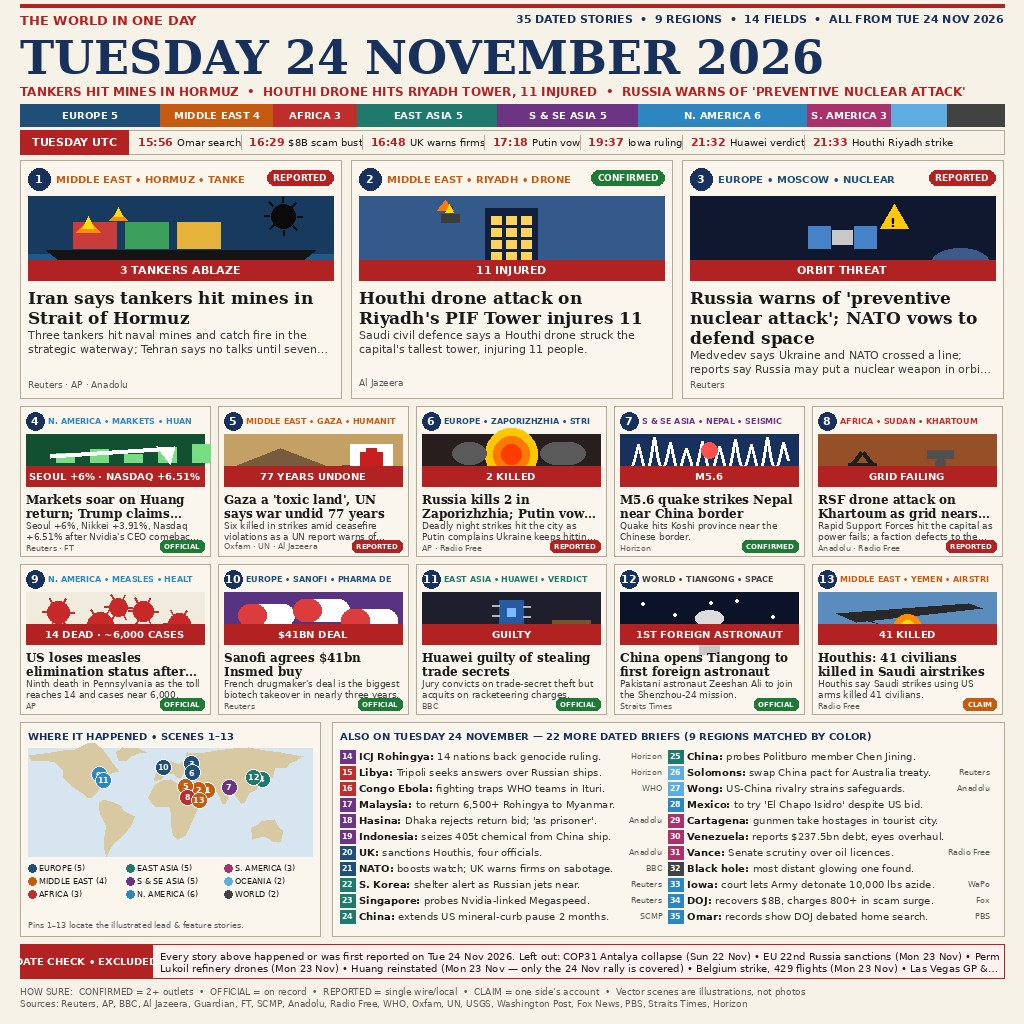
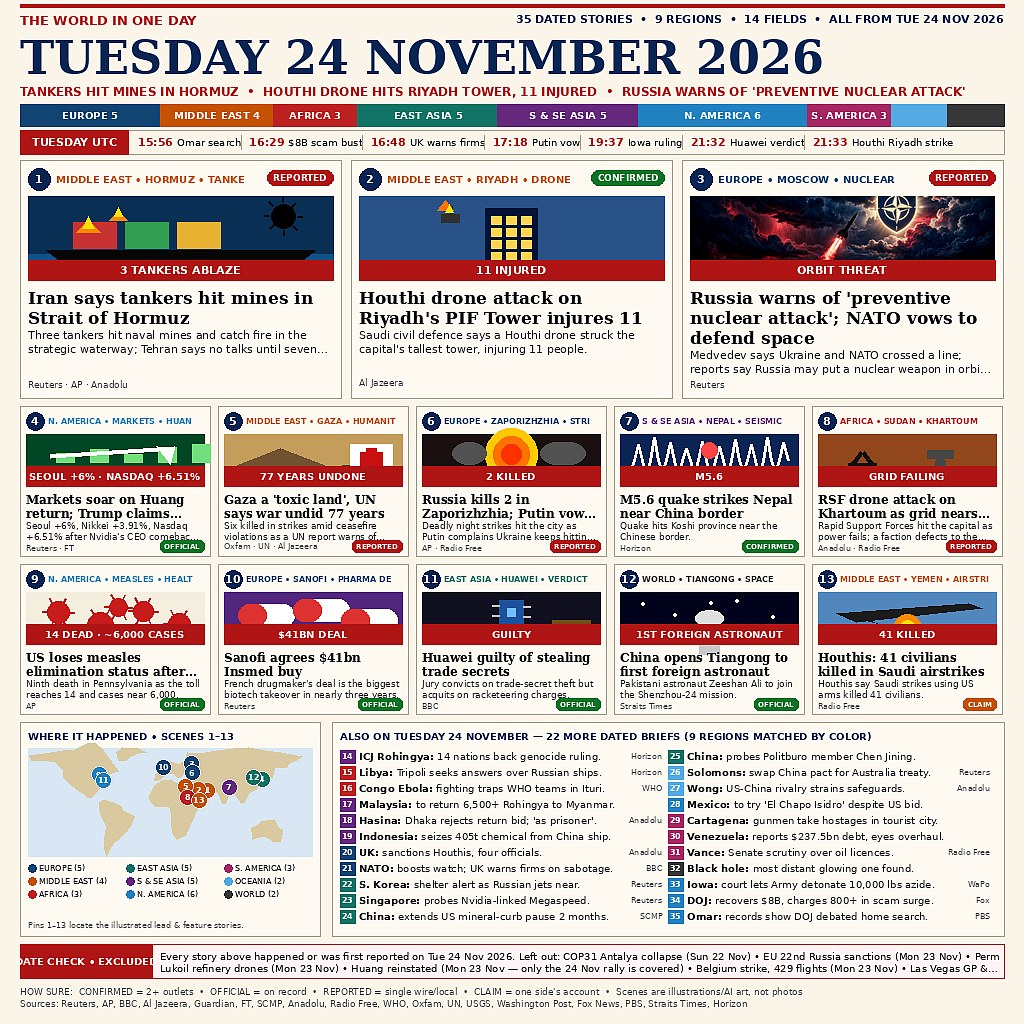
Add files via upload

diff --git a/main.ts b/main.ts
@@ -2,6 +2,8 @@ import { copyFileSync, mkdirSync } from "node:fs";
 import { dirname, join } from "node:path";
 import { fileURLToPath } from "node:url";
 
+// The front page is pre-rendered (see work/gen.py); this entrypoint only
+// copies it into the grader's output directory. It never deletes anything.
 const here = dirname(fileURLToPath(import.meta.url));
 const outDir = process.env.MAKEFUN_OUTPUT_DIR ?? "out";
 mkdirSync(outDir, { recursive: true });
